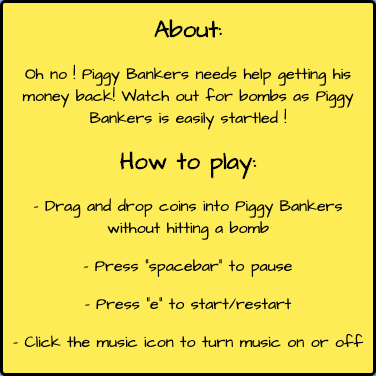
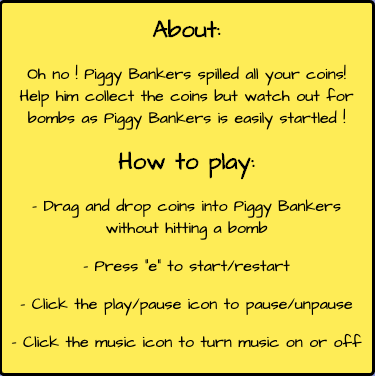
Update instructions

diff --git a/index.html b/index.html
@@ -127,14 +127,13 @@
                 <h2>How to play:</h2>
                 <p>- Drag and drop coins into Piggy Bankers without hitting a bomb</p>
                 <p>- Press "e" to start/restart</p>
-                <!-- <p>- Press "spacebar" to pause/unpause</p> -->
+                <p>- Click the play/pause icon to pause/unpause</p>
                 <p>- Click the music icon to turn music on or off</p>
             </div>
 
             <div id="start-window">
                 <h2>Ready?</h2>
                 <p>Press "e" to start/restart</p>
-                <!-- <p>Press "spacebar" to pause/unpause</p> -->
             </div>
 
         </div>
